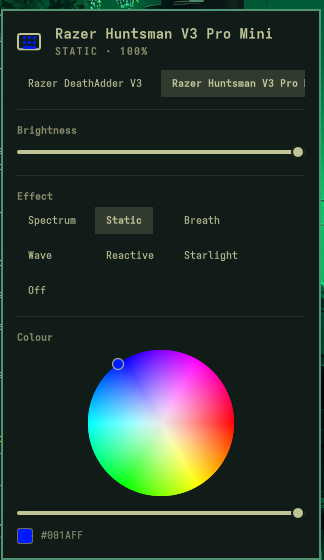
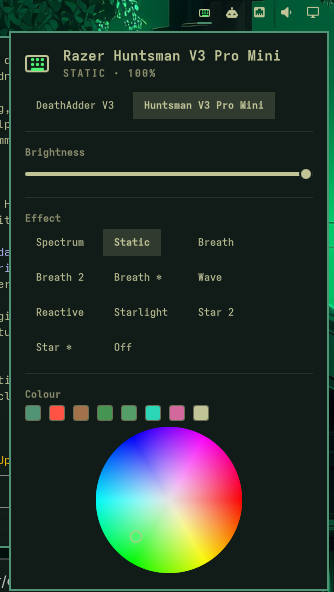
Apply the theme colour on a theme switch
Omarchy has shipped a keyboard.rgb per theme and an omarchy-theme-set-keyboard
dispatcher for a while, but it only ever called the ASUS ROG and F16 handlers.
Nothing consumed it for Razer hardware, so a theme switch left the keyboard on
whatever it was.

Add a theme-set hook that fills that in, and a `theme <rrggbb>` command for it
to call -- one interpreter start for every device rather than one per device.
The hook prefers the theme's keyboard.rgb, which is the colour the theme author
chose for hardware and is not always the accent, and falls back to accent from
colors.toml so it agrees with the panel's swatch row.

It is opt-in by linking it into theme-set.d, which also keeps setup.sh from
growing another write to the user's config. Quiet by construction: no theme
colour, no valid colour, no plugin, or no device with static lighting all exit
0 without touching anything, because a hook on every theme change must not make
the switch fail. Verified against a missing theme directory, a garbage
keyboard.rgb, and a device with no lighting at all.

Also refreshes preview.png, which still showed seven effects, no swatch row,
and device tabs clipped at the panel edge.

diff --git a/razerctl.py b/razerctl.py
@@ -16,7 +16,7 @@ see.
 
 Two modes:
 
-  one-shot   razerctl.py list | brightness | effect | dpi | pollrate ...
+  one-shot   razerctl.py list | brightness | effect | dpi | pollrate | theme ...
   serve      razerctl.py serve
 
 `serve` reads one JSON argv array per line on stdin and writes one JSON object
@@ -364,6 +364,43 @@ def cmd_effect(serial, name, rgb):
             "color": primary, "color2": secondary}
 
 
+def cmd_theme(raw):
+    """Put one colour on every device that can hold a static effect.
+
+    Used by the theme-set hook. Devices that cannot do static -- a wired
+    DeathAdder V3 reports no lighting at all -- are reported as skipped rather
+    than treated as a failure, because "no Razer lighting here" is a normal
+    outcome for a hook that runs on every theme change.
+    """
+    text = str(raw).lstrip("#").strip()
+    if len(text) != 6:
+        fail("theme colour must be 6 hex digits")
+    try:
+        r, g, b = (int(text[i:i + 2], 16) for i in (0, 2, 4))
+    except ValueError:
+        fail("theme colour must be 6 hex digits")
+
+    applied, skipped = [], []
+    for device in devices():
+        try:
+            usable = device.has("lighting_static")
+        except Exception:
+            usable = False
+        if not usable:
+            skipped.append(device.name)
+            continue
+        try:
+            # Same order as cmd_effect: the named effect keeps the daemon's
+            # bookkeeping and persistence right, the custom frame lands without
+            # the firmware crossfade.
+            device.fx.static(r, g, b)
+            apply_static(device, r, g, b)
+            applied.append(device.name)
+        except Exception:
+            skipped.append(device.name)
+    return {"color": [r, g, b], "applied": applied, "skipped": skipped}
+
+
 def cmd_dpi(serial, raw):
     try:
         value = int(float(raw))
@@ -431,6 +468,10 @@ def dispatch(argv):
         if len(args) < 2:
             fail("usage: effect <serial> <name> [r g b [r2 g2 b2]]")
         return cmd_effect(args[0], args[1], args[2:8])
+    if command == "theme":
+        if len(args) != 1:
+            fail("usage: theme <rrggbb>")
+        return cmd_theme(args[0])
     if command == "dpi":
         if len(args) != 2:
             fail("usage: dpi <serial> <value>")

diff --git a/README.md b/README.md
@@ -30,6 +30,7 @@ sets `restore_persistence = True`. Skip it only if OpenRazer already works.
 ## Uninstall
 
 ```bash
+rm -f ~/.config/omarchy/hooks/theme-set.d/razer   # if you linked the hook
 omarchy plugin disable daedalus.razer
 omarchy plugin remove daedalus.razer
 ```
@@ -77,6 +78,31 @@ but full DPI and poll-rate ones, so it shows the performance controls alone.
 
 When more than one device is controllable, a switcher row appears under the
 title.
+
+## Follow the theme automatically
+
+The swatch row makes matching the Omarchy theme one click. To make it zero
+clicks, link the bundled hook so the colour is reapplied whenever the theme
+changes:
+
+```bash
+ln -sf ~/.config/omarchy/plugins/daedalus.razer/theme-hook.sh \
+       ~/.config/omarchy/hooks/theme-set.d/razer
+```
+
+Delete that link to turn it off again. It needs no executable bit — Omarchy
+runs everything in `theme-set.d` through `bash`.
+
+The hook prefers the theme's own `keyboard.rgb`, which is the colour the theme
+author picked for hardware and is not always the accent, and falls back to
+`accent` from `colors.toml`. Omarchy has shipped `keyboard.rgb` and an
+`omarchy-theme-set-keyboard` dispatcher for a while, but only for ASUS ROG and
+F16 hardware — nothing consumed it for Razer, which is what this fills in.
+
+It is deliberately quiet: no theme colour, no valid colour, or no Razer
+lighting present all exit 0 without touching anything, because a hook that runs
+on every theme change must never make the switch fail. A wired DeathAdder V3
+reports no lighting at all and is simply skipped.
 
 ## Settings
 
